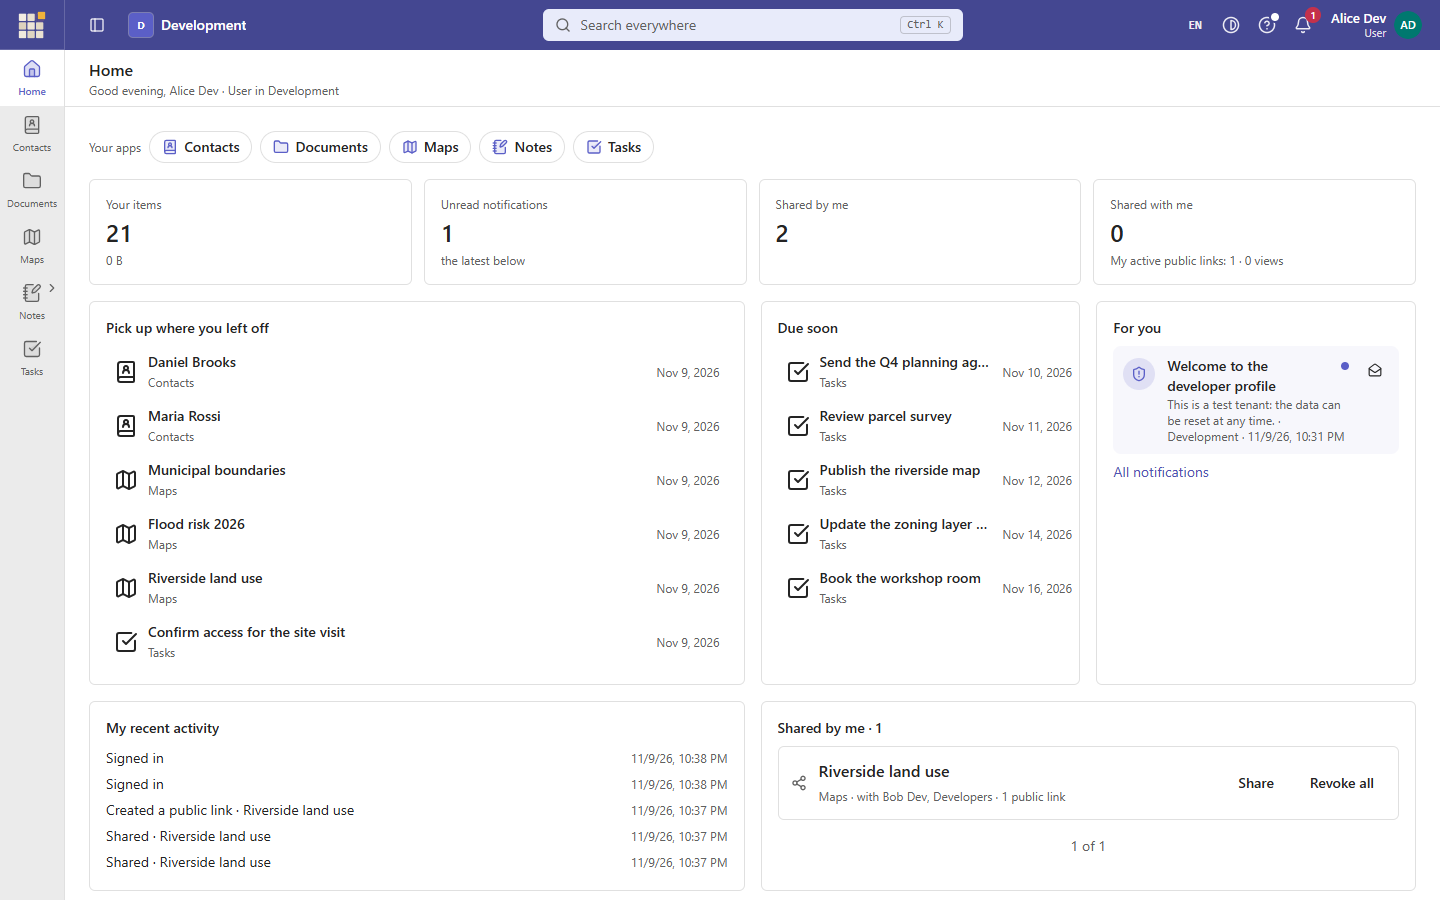
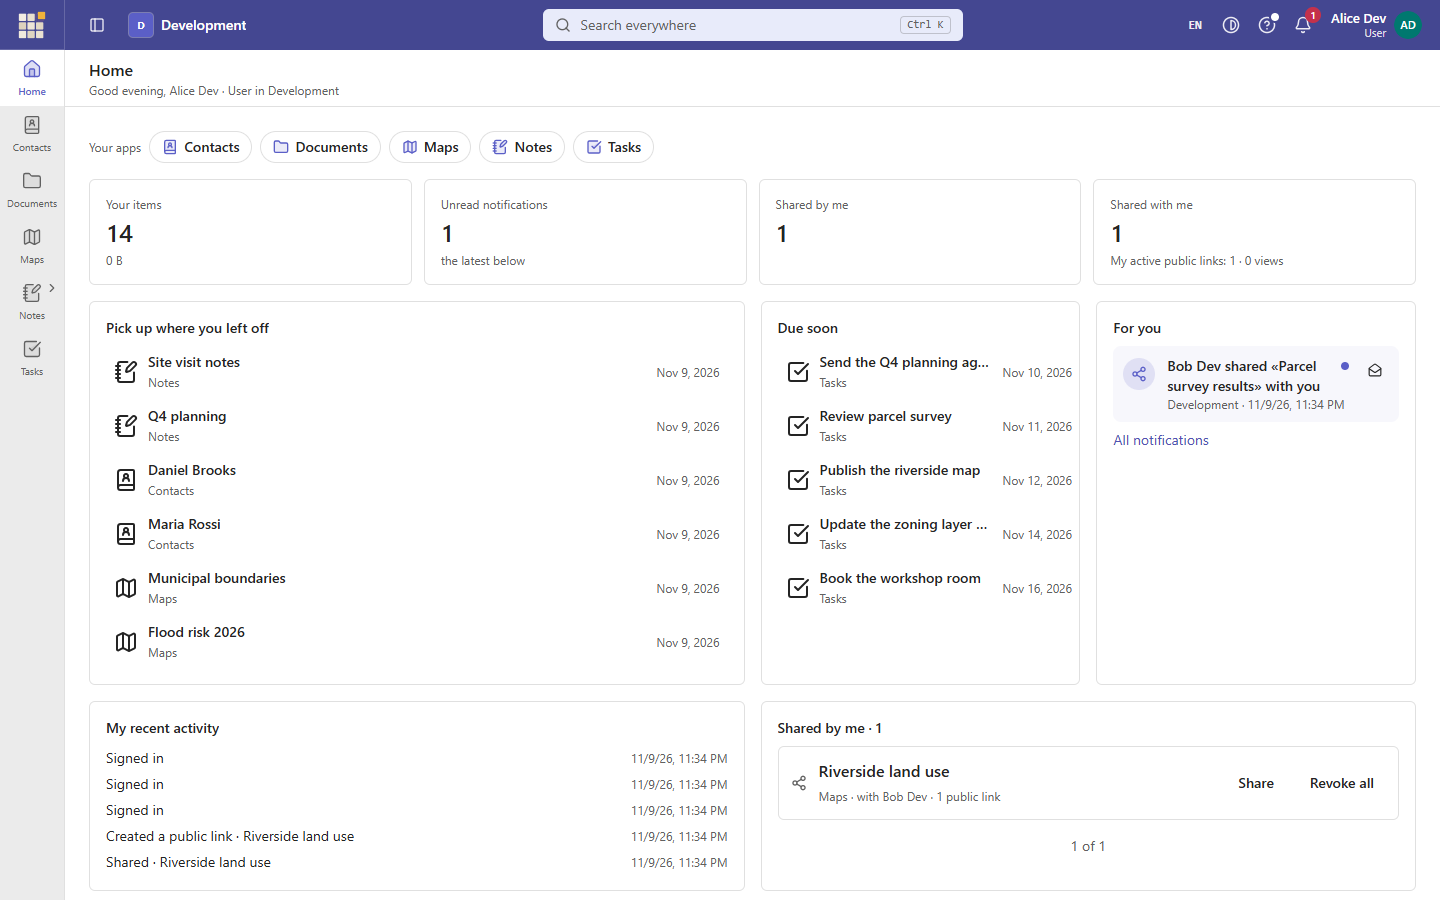
Site: home screenshot, Dev Kit page, licence of the site source (#4)
* Home page: features, benefits, screenshots, and two ways to start (a plugin, a product)

* Home: new screenshot of the home page; Dev Kit page says it holds the product tool and the only download; the licence of the source of the site

---------

diff --git a/devkit/index.html b/devkit/index.html
@@ -25,9 +25,10 @@
 <main><div class="wrap">
   <h2>Dev kit</h2>
   <p>The kit is for whoever writes, tests, signs and ships a plugin for Mosaikit, or builds a product on the platform,
-    without the source code of the platform. It holds the <code>mosaikit-plugin</code> command-line tool, the plugin SDK
+    without the source code of the platform. It holds the <code>mosaikit-plugin</code> and <code>mosaikit-product</code> command-line tools, the plugin SDK
     (Rust), the plugin UI API (<code>@mosaikit/plugin-api</code>), the documents, examples and Docker files. Each release
-    of the platform has its kit archives on the <a href="https://github.com/mosaikit/mosaikit/releases">releases page</a>.
+    of the platform has its kit archives on the <a href="https://github.com/mosaikit/mosaikit/releases">releases page</a>. The kit is the only download: a product is built on the compiled platform (the Base), which
+    <code>mosaikit-product --base &lt;version&gt;</code> fetches, checks and keeps for you.
     Start from the <a href="https://github.com/mosaikit/mosaikit/blob/main/docs/devkit/getting-started.md">Getting started</a> document; the index is the
     <a href="https://github.com/mosaikit/mosaikit/blob/main/docs/devkit/README.md">dev kit README</a>.</p>
   <h3>Documents</h3>
@@ -70,6 +71,6 @@ mosaikit-plugin self-update --from-dir &lt;folder with the files&gt; --trusted-k
   <pre><code>NFOuLYouMh4B5PX99+IAf40mlQf1gHRXTXuqaOXyVCc=</code></pre>
   <p>It is the key that signs the kit release <code>kit-v1.0.0-rc1</code> and it is the content of <code>trusted_key.txt</code> in its archives. To check a download without installing it: <code>mosaikit-plugin self-update --check --from-dir &lt;folder with the archive, SHA256SUMS and SHA256SUMS.sig&gt; --trusted-key NFOuLYouMh4B5PX99+IAf40mlQf1gHRXTXuqaOXyVCc=</code>.</p>
 </div></main>
-<footer><div class="wrap">Mosaikit is free software under the <a href="https://www.apache.org/licenses/LICENSE-2.0">Apache License 2.0</a>. · <a href="https://github.com/mosaikit/mosaikit.github.io">Source of this site</a></div></footer>
+<footer><div class="wrap">Mosaikit is free software under the <a href="https://www.apache.org/licenses/LICENSE-2.0">Apache License 2.0</a>. · <a href="https://github.com/mosaikit/mosaikit.github.io">Source of this site</a> (MPL 2.0)</div></footer>
 </body>
 </html>

diff --git a/plugins/index.html b/plugins/index.html
@@ -51,6 +51,6 @@
   </div>
   <p style="margin-top:32px">To write your own, start from the <a href="/devkit/">Dev kit</a>.</p>
 </div></main>
-<footer><div class="wrap">Mosaikit is free software under the <a href="https://www.apache.org/licenses/LICENSE-2.0">Apache License 2.0</a>. · <a href="https://github.com/mosaikit/mosaikit.github.io">Source of this site</a></div></footer>
+<footer><div class="wrap">Mosaikit is free software under the <a href="https://www.apache.org/licenses/LICENSE-2.0">Apache License 2.0</a>. · <a href="https://github.com/mosaikit/mosaikit.github.io">Source of this site</a> (MPL 2.0)</div></footer>
 </body>
 </html>

diff --git a/index.html b/index.html
@@ -126,6 +126,6 @@ mosaikit-product build docker --base 1.0.2 --build</pre>
     </div>
   </section>
 </div></main>
-<footer><div class="wrap">Mosaikit is free software under the <a href="https://www.apache.org/licenses/LICENSE-2.0">Apache License 2.0</a>. · <a href="https://github.com/mosaikit/mosaikit.github.io">Source of this site</a></div></footer>
+<footer><div class="wrap">Mosaikit is free software under the <a href="https://www.apache.org/licenses/LICENSE-2.0">Apache License 2.0</a>. · <a href="https://github.com/mosaikit/mosaikit.github.io">Source of this site</a> (MPL 2.0)</div></footer>
 </body>
 </html>
